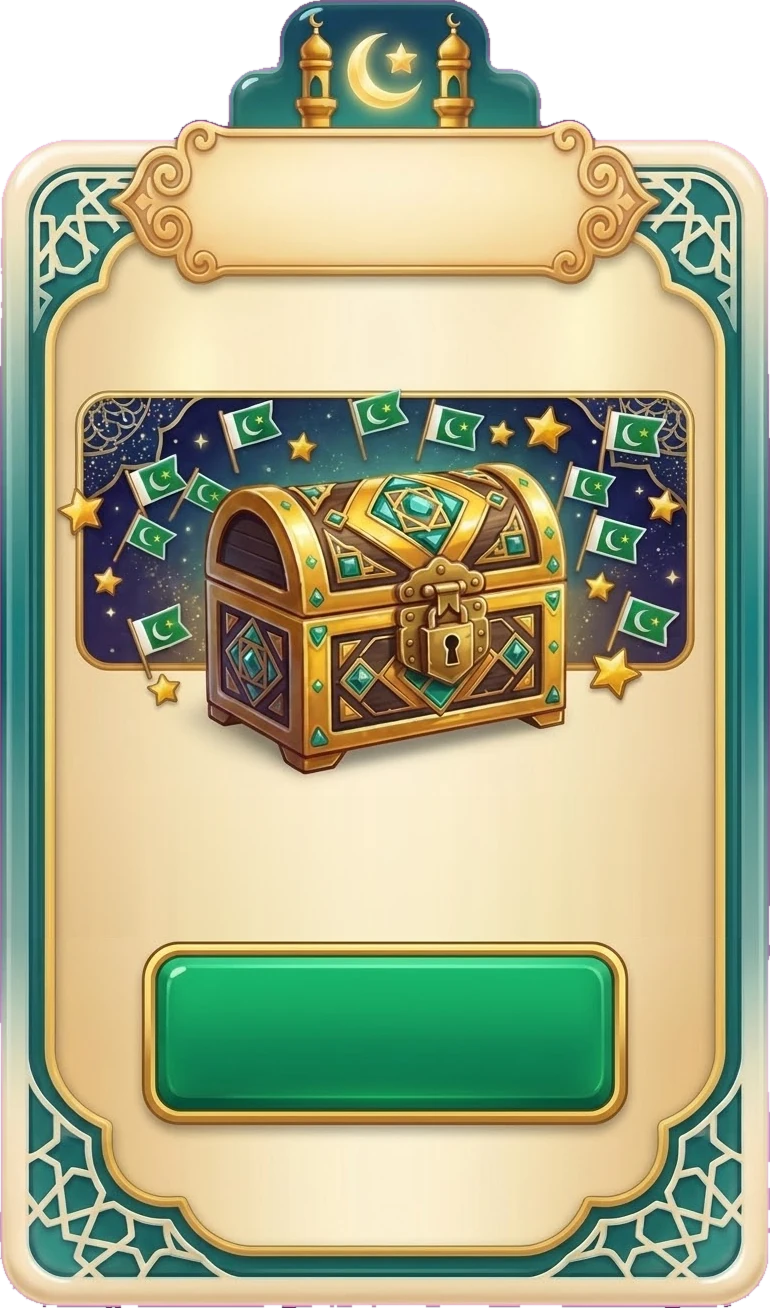
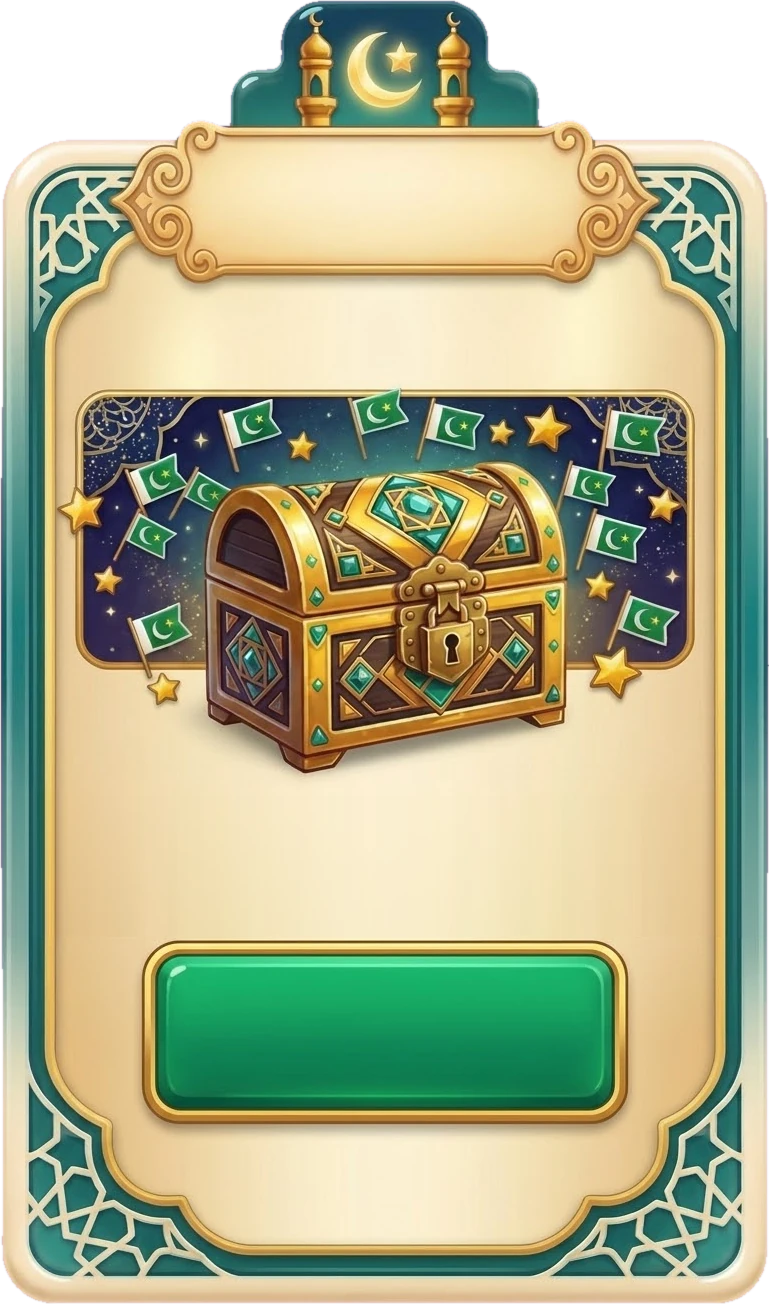
Proef v308: speels lettertype (Lilita One) in het schatkistvenster, tekst past beter, schonere rand
Claude-Session: https://claude.ai/code/session_01JY69MahnWjNYJwqrWosrAq

diff --git a/index.html b/index.html
@@ -1049,17 +1049,17 @@ body.bonus-on { overflow: hidden; }
 .cg-rays { position: absolute; z-index: 0; left: 50%; top: 42%; width: 160%; aspect-ratio: 1; margin: -80% 0 0 -80%; background: repeating-conic-gradient(rgba(255,226,140,.16) 0 9deg, transparent 9deg 24deg); animation: coSpin 24s linear infinite; pointer-events: none; }
 .cg-card { position: relative; z-index: 1; width: min(92vw, 380px); aspect-ratio: 770 / 1308; container-type: inline-size; background: url(melding/schatkist-venster.webp) center / 100% 100% no-repeat; filter: drop-shadow(0 14px 22px rgba(0,0,0,.45)); }
 .cg-card > * { position: absolute; margin: 0; }
-.cg-title { left: 17.7%; width: 67.5%; top: 9.3%; height: 11.9%; display: flex; align-items: center; justify-content: center; text-align: center; font-size: 5.3cqw; line-height: 1.05; color: #5a3d00; text-shadow: 0 1px 0 rgba(255,255,255,.7); }
+.cg-title { left: 17.7%; width: 67.5%; top: 9.3%; height: 11.9%; display: flex; align-items: center; justify-content: center; text-align: center; font-family: "Lilita One", "Nunito", sans-serif; font-weight: 400; letter-spacing: .02em; font-size: 6.3cqw; line-height: 1; color: #6b3f00; text-shadow: 0 1.5px 0 rgba(255,248,220,.9), 0 3px 3px rgba(90,50,0,.25); }
 .cg-chest { appearance: none; border: 0; background: transparent; padding: 0; cursor: pointer; left: 10%; width: 79.5%; top: 30%; height: 31%; }
 .cg-chest.opened::after { content: ""; position: absolute; inset: -6% -4%; background: radial-gradient(circle, rgba(255,226,120,.85), rgba(255,226,120,0) 62%); mix-blend-mode: screen; pointer-events: none; animation: cgGlow 1.4s ease-out both; }
 @keyframes cgGlow { 0% { opacity: 0; transform: scale(.6); } 35% { opacity: 1; } 100% { opacity: .55; transform: scale(1.05); } }
 .cg-info { left: 12%; width: 76%; top: 61.5%; height: 9.6%; display: flex; flex-direction: column; align-items: center; justify-content: center; text-align: center; color: #4a3300; gap: .8cqw; }
-.cg-info .co-sub { font-size: 4.3cqw; }
+.cg-info .co-sub { font-size: 4.2cqw; }
 .cg-info .co-game { background: none; padding: 0; justify-content: center; text-align: center; animation: pop .5s ease both; }
-.cg-info .co-game b { font-size: 4.6cqw; } .cg-info .co-game small { font-size: 3.5cqw; line-height: 1.2; }
-.cg-gem { appearance: none; border: 0; cursor: pointer; left: 18.7%; width: 62.6%; top: 71.9%; height: 13.9%; background: transparent; display: flex; align-items: center; justify-content: center; padding: 0 6%; font: inherit; font-weight: 900; font-size: 5.2cqw; color: #fff; text-shadow: 0 2px 3px rgba(0,60,30,.85); }
+.cg-info .co-game b { display: block; font-family: "Lilita One", "Nunito", sans-serif; font-weight: 400; letter-spacing: .02em; font-size: 5cqw; color: #6b3f00; } .cg-info .co-game small { display: block; font-size: 3.4cqw; line-height: 1.2; }
+.cg-gem { appearance: none; border: 0; cursor: pointer; left: 18.7%; width: 62.6%; top: 71.9%; height: 13.9%; background: transparent; display: flex; align-items: center; justify-content: center; padding: 0 6%; font-family: "Lilita One", "Nunito", sans-serif; font-weight: 400; letter-spacing: .02em; font-size: 5.4cqw; white-space: nowrap; line-height: 1; color: #fff; -webkit-text-stroke: 1.2cqw #0a5a35; paint-order: stroke fill; text-shadow: 0 2px 0 #0a5a35, 0 3px 4px rgba(0,50,25,.5); }
 .cg-gem:active { transform: scale(.97); }
-.cg-later { appearance: none; border: 0; background: none; left: 25%; width: 50%; top: 86.6%; height: 4.6%; cursor: pointer; font: inherit; font-weight: 800; font-size: 4.2cqw; color: #0d4a43; text-decoration: underline; }
+.cg-later { appearance: none; border: 0; background: none; left: 25%; width: 50%; top: 86.6%; height: 4.6%; cursor: pointer; font-family: "Lilita One", "Nunito", sans-serif; font-weight: 400; letter-spacing: .03em; font-size: 4.8cqw; color: #0d4a43; text-decoration: underline; }
 .co-stage > * { position: relative; z-index: 1; }
 .co-stage .co-rays { position: absolute; z-index: 0; left: 50%; top: 36%; width: 150%; aspect-ratio: 1; margin: -75% 0 0 -75%; background: repeating-conic-gradient(rgba(255,255,255,.55) 0 9deg, transparent 9deg 24deg); animation: coSpin 18s linear infinite; border-radius: 50%; -webkit-mask-image: radial-gradient(circle, #000 15%, transparent 62%); mask-image: radial-gradient(circle, #000 15%, transparent 62%); }
 @keyframes coSpin { to { transform: rotate(360deg); } }

diff --git a/fonts/fonts.css b/fonts/fonts.css
@@ -4,3 +4,4 @@
 @font-face { font-family: "Amiri"; font-style: normal; font-weight: 700; font-display: swap; src: url("/fonts/amiri-bold.woff2") format("woff2"); }
 @font-face { font-family: "Amiri"; font-style: italic; font-weight: 400; font-display: swap; src: url("/fonts/amiri-italic.woff2") format("woff2"); }
 @font-face { font-family: "Kaushan Script"; font-style: normal; font-weight: 400; font-display: swap; src: url("/fonts/kaushan.woff2") format("woff2"); }
+@font-face { font-family: "Lilita One"; font-style: normal; font-weight: 400; font-display: swap; src: url("/fonts/lilitaone.ttf") format("truetype"); }

diff --git a/sw.js b/sw.js
@@ -1,6 +1,6 @@
 /* Islam Quiz – service worker (netwerk eerst, cache als terugval)
    Verhoog CACHE_VERSION bij elke release. Zo zien bezoekers altijd meteen de nieuwste versie. */
-const CACHE_VERSION = "islam-quiz-v307";
+const CACHE_VERSION = "islam-quiz-v308";
 const QURAN_CACHE = "iq-quran-1";   // Koran-tekst en -lettertype: blijven bewaard tussen versies (offline lezen)
 const PRECACHE = [];
 
